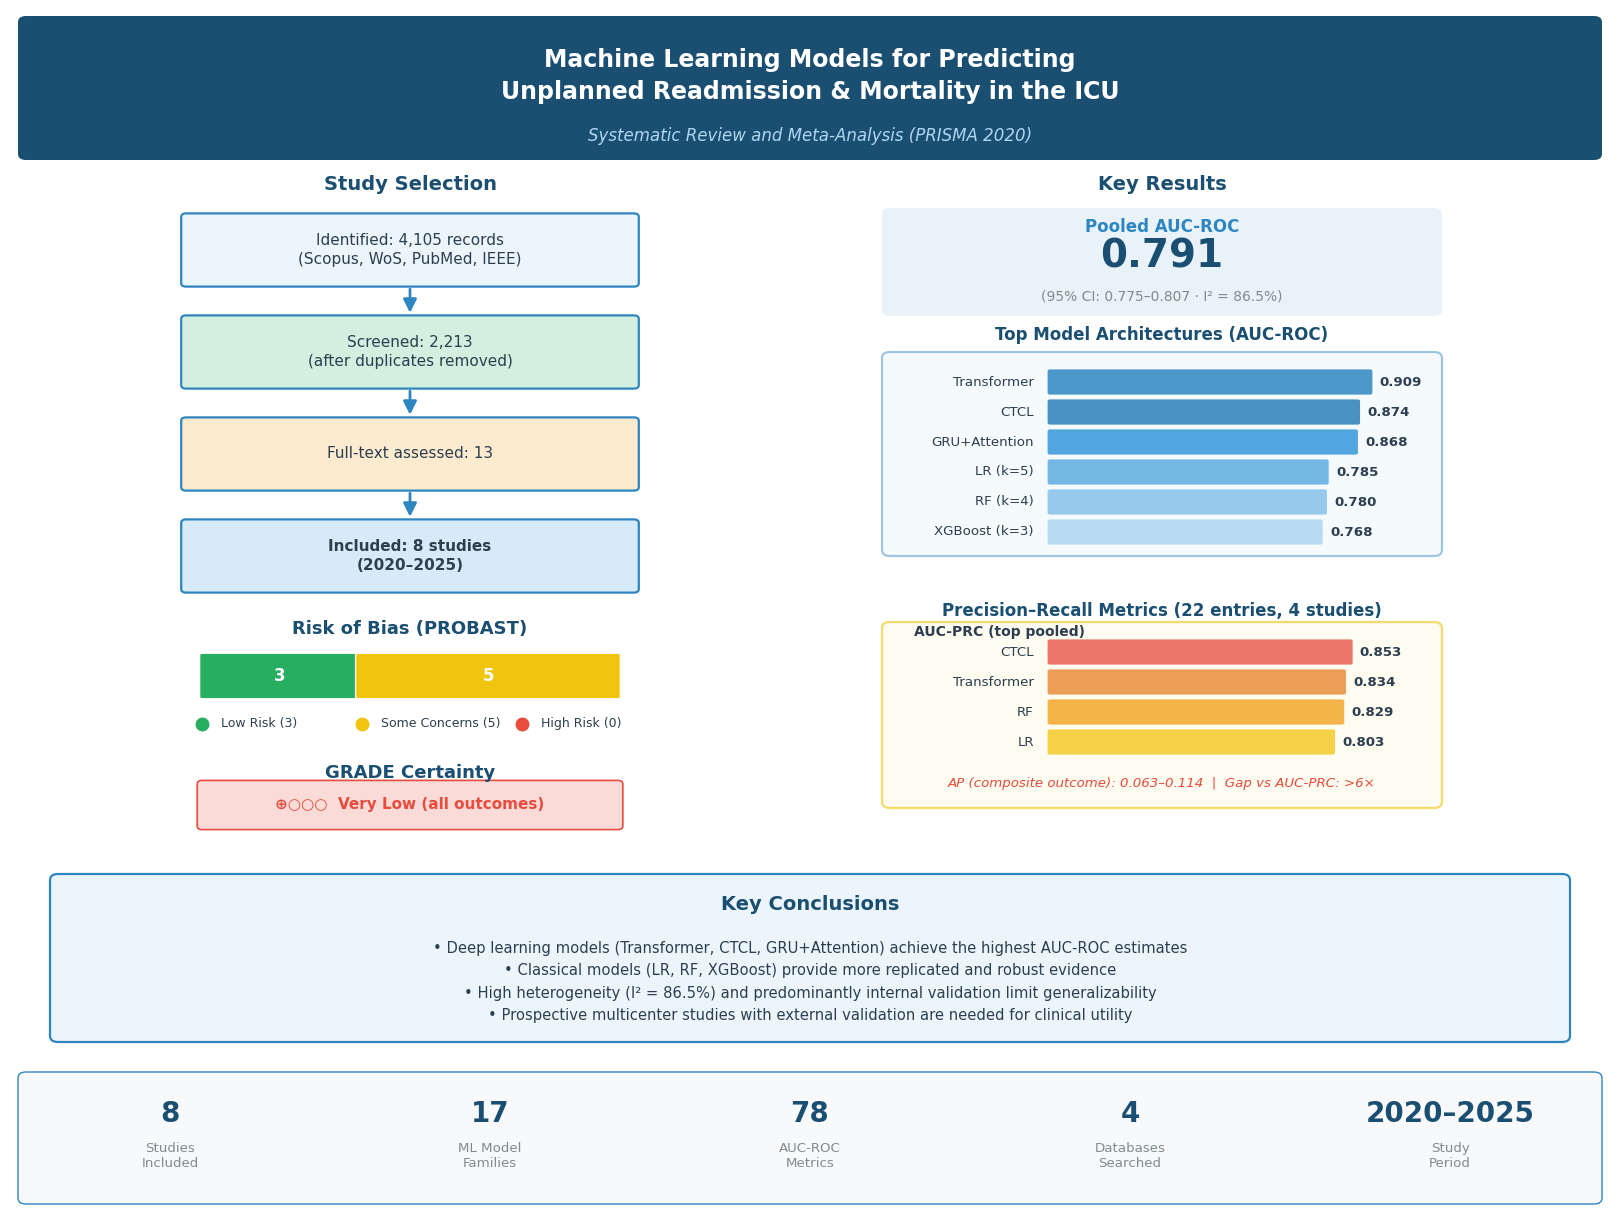
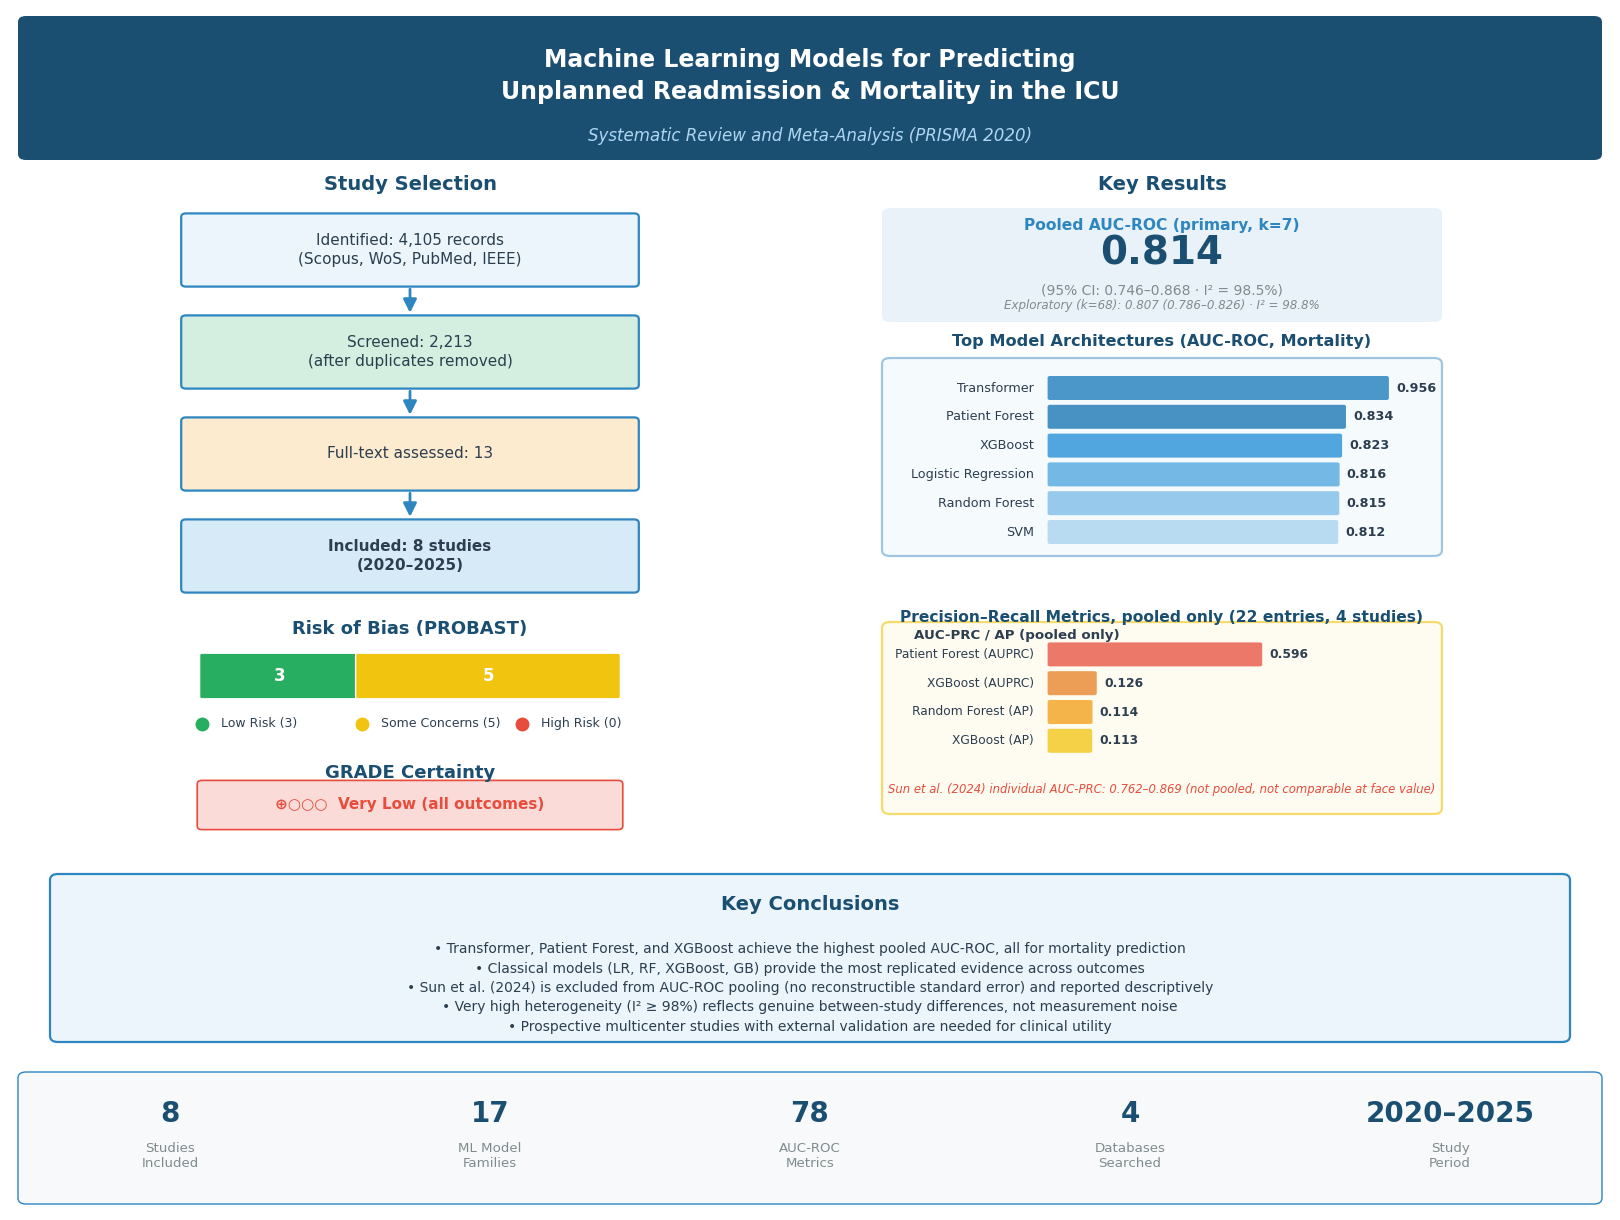
Corrected `supplementary/graphical_abstract.png`

Changed region(s): [[0.5556, 0.1557, 0.8951, 0.4672], [0.5556, 0.4984, 0.8951, 0.6852], [0.2778, 0.7475, 0.7407, 0.841]]

diff --git a/CHANGELOG.md b/CHANGELOG.md
@@ -4,6 +4,75 @@ All notable changes to this repository are documented here. This project accompa
 manuscript under peer review; this changelog exists so that any reader can see exactly what
 changed between releases and why, alongside the immutable git tags for each version.
 
+## [v1.4.0] — 2026-09-02
+
+Corrected `supplementary/graphical_abstract.png`, which had never been updated after the
+statistical correction round (logit-scale pooling, Sun M. et al. excluded from AUC-ROC pooling,
+outcome-stratified subgroups). Investigation found that **neither existing copy of this
+graphic was current**: this repository's copy and the primary manuscript repository's own
+reference copy (`graphical_abstract_bdcc.png`) carried two different sets of stale numbers
+(pooled AUC-ROC 0.791 here vs. 0.797 there), and no dedicated generator script for this
+graphic existed at all — the only script found (`scripts/generate_graphical_abstract.py` in
+the primary repository) was for a different, unrelated journal submission.
+
+- Pooled AUC-ROC headline: replaced the single stale value (0.791, 95% CI 0.775–0.807,
+  I²=86.5%) with the current dual primary/exploratory report: primary (k=7) 0.814 (95% CI
+  0.746–0.868, I²=98.5%); exploratory (k=68) 0.807 (95% CI 0.786–0.826, I²=98.8%).
+- "Top Model Architectures" panel: replaced the old model-only pooled bars — two of which
+  (CTCL 0.874, GRU+Attention 0.868) no longer exist as valid pooled quantities at all under
+  the corrected, outcome-stratified methodology — with the current top 6 outcome-stratified
+  values (all mortality: Transformer 0.956, Patient Forest 0.834, XGBoost 0.823, Logistic
+  Regression 0.816, Random Forest 0.815, SVM 0.812), matching
+  `results/tables/model_subgroup_table.tex`.
+- "Precision–Recall Metrics" panel: replaced four fabricated "pooled" values for Sun M. et
+  al. (0.853/0.834/0.829/0.803 — these were never valid pooled estimates and are now 8
+  separate k=1 descriptive rows per `results/tables/pr_subgroup_table.tex`) with the only
+  genuinely pooled PR values (Patient Forest AUPRC 0.596, XGBoost AUPRC 0.126, Random Forest
+  AP 0.114, XGBoost AP 0.113), and relabeled the panel to make clear these are pooled-only,
+  with Sun's individual range (0.762–0.869) noted separately as not comparable at face value.
+- "Key Conclusions" bullets rewritten to name the correct top-performing models and outcome,
+  cite the correct heterogeneity (I²≥98%, not 86.5%), and mention Sun M. et al.'s exclusion
+  from AUC-ROC pooling — the single most important methodological change of the correction
+  round, previously absent from this graphic entirely.
+- PRISMA flow counts, PROBAST risk-of-bias counts, GRADE certainty rating, and the bottom
+  summary-statistics strip were all audited and confirmed still accurate — unchanged.
+
+Also audited `supplementary/PRISMA_2020_checklist_completed.md` for the same kind of drift:
+confirmed **not stale** — its 27 PRISMA-item-to-section mappings still match the primary
+manuscript's own labels exactly, and PRISMA checklist items are standardized reporting
+categories, not a summary of results, so they are unaffected by the statistical correction.
+
+## [v1.3.0] — 2026-09-02
+
+Bibliography sync in response to two reference-hygiene issues raised by the journal editor
+during peer review of the manuscript.
+
+- **`references/references.bib`** (50 entries, up from 49):
+  - Removed `Freund1997AdaBoost` (Freund & Schapire, 1997, *JCSS*) and replaced it with
+    `Schapire2003Boosting` (Schapire, "The Boosting Approach to Machine Learning: An Overview,"
+    in *Nonlinear Estimation and Classification*, Springer, 2003, DOI
+    `10.1007/978-0-387-21579-2_9`) — a background citation supporting a single passing mention
+    of AdaBoost's origin. The editor's automated check flagged the 1997 paper as carrying an
+    official correction record; no such record could be independently confirmed via CrossRef,
+    Elsevier, or Retraction Watch, but since it is a low-stakes, single-use background citation
+    it was swapped anyway rather than relying on an unconfirmed absence of evidence. A
+    candidate replacement (the original 1996 ICML conference paper) was considered and rejected
+    because its only resolvable identifier (ACM Digital Library) returns HTTP 403 to automated
+    link-checkers — the same class of false-positive failure this change is meant to avoid.
+  - Added `DeHond2023Erratum` (*Crit Care Med.* 2023;51(4):e105, DOI
+    `10.1097/CCM.0000000000005818`, PMID 36928025), cited alongside the original `DeHond2023`
+    entry. De Hond et al. (2023) is one of the 8 studies this review analyzes, not a background
+    citation, so — unlike the AdaBoost citation — it could not simply be removed or substituted
+    without misrepresenting which study was actually analyzed. The erratum is a purely
+    bibliographic author-name correction (unrelated to any data, method, or metric extracted for
+    this review); standard practice for an included study with a cosmetic erratum is to cite the
+    correction alongside the original, not to swap out the study.
+  - Added a `pmid` field (7063747) to `HanleyMcNeil1982`. Its DOI was flagged by the editor as
+    inaccessible; independent verification (CrossRef, a live `doi.org` redirect, and PubMed)
+    confirmed the DOI is valid and resolves correctly — the RSNA journal site returns an HTTP 403
+    to automated bots, which is almost certainly what the editor's checker encountered. The DOI
+    itself was not changed; the PMID is added as a bot-friendly secondary access point.
+
 ## [v1.2.0] — 2026-09-02
 
 Full-English-language pass and a public-release readiness review, prompted by a request to

diff --git a/README.md b/README.md
@@ -110,6 +110,15 @@ If you use these materials, please cite:
 
 ## Version History
 
+- **v1.4.0** (2026-09-02): Corrected `graphical_abstract.png`, which had never been updated
+  after the statistical correction round in either this repository or the primary manuscript
+  repository — replaced the stale pooled AUC-ROC, model-architecture, and precision-recall
+  panels with current values, and confirmed the PRISMA checklist is not affected. See
+  [`CHANGELOG.md`](CHANGELOG.md) for details.
+- **v1.3.0** (2026-09-02): Bibliography sync addressing two reference-hygiene issues raised by
+  the journal editor (an AdaBoost background citation swapped for one without a correction
+  record; an erratum citation added for an included study; a PMID added for a DOI that was
+  wrongly flagged as broken). See [`CHANGELOG.md`](CHANGELOG.md) for details.
 - **v1.2.0** (2026-09-02): Full-English-language pass (protocol, extracted-data field names and
   values, and all four results tables translated; six Spanish-named files renamed) and a
   public-release copyright/readiness review. See [`CHANGELOG.md`](CHANGELOG.md) for details.
